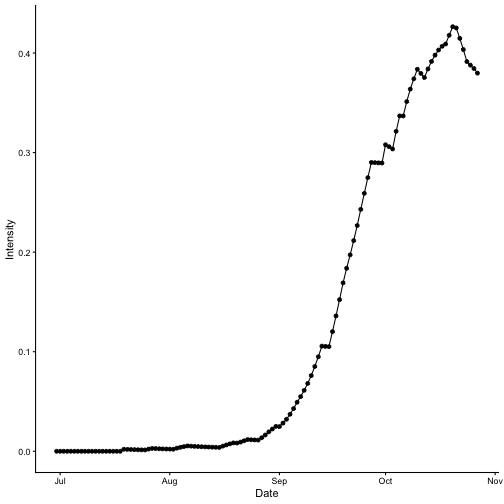
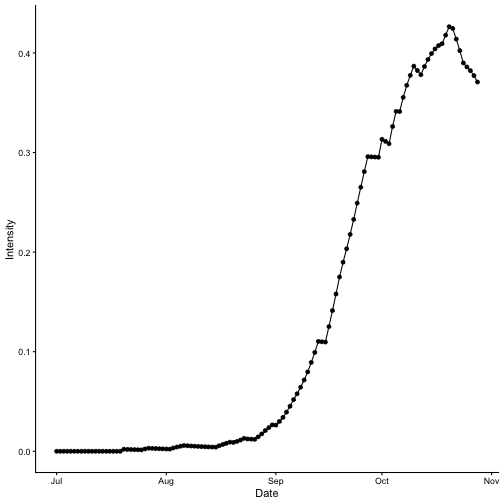
reknit README

diff --git a/README.md b/README.md
@@ -7,7 +7,7 @@
 
 <!-- badges: start -->
 
-[![Project Status: Active – The project has reached a stable, usable state and is being actively developed.](https://www.repostatus.org/badges/latest/active.svg)](https://www.repostatus.org/#active) [![Lifecycle: stable](https://img.shields.io/badge/lifecycle-stable-green.svg)](https://lifecycle.r-lib.org/articles/stages.html#stable) [![DOI](https://zenodo.org/badge/58613738.svg)](https://zenodo.org/badge/latestdoi/58613738) [![CRAN status](https://www.r-pkg.org/badges/version/epicrop)](https://CRAN.R-project.org/package=epicrop) [![Code Coverage: 70%](https://img.shields.io/badge/code_coverage-70%25-green)](#code-coverage)
+[![Project Status: Active – The project has reached a stable, usable state and is being actively developed.](https://www.repostatus.org/badges/latest/active.svg)](https://www.repostatus.org/#active) [![Lifecycle: stable](https://img.shields.io/badge/lifecycle-stable-green.svg)](https://lifecycle.r-lib.org/articles/stages.html#stable) [![DOI](https://zenodo.org/badge/58613738.svg)](https://zenodo.org/badge/latestdoi/58613738) [![CRAN status](https://www.r-pkg.org/badges/version/epicrop)](https://CRAN.R-project.org/package=epicrop) [![Code Coverage: 69%](https://img.shields.io/badge/code_coverage-69%25-green)](#code-coverage)
 
 <!-- badges: end -->
 
@@ -51,19 +51,20 @@ wth <- get_wth(
 )
 
 wth
+#> Key: <YYYYMMDD>
 #>        YYYYMMDD   DOY  TEMP  TMIN  TMAX  RHUM  RAIN     LAT      LON
-#>          <Date> <int> <num> <num> <num> <num> <num>   <num>    <num>
-#>   1: 2000-06-30   182 26.02 23.34 28.76 88.53 11.01 14.6774 121.2556
-#>   2: 2000-07-01   183 25.29 23.86 27.78 92.20 23.12 14.6774 121.2556
-#>   3: 2000-07-02   184 26.13 23.54 29.90 86.01 17.34 14.6774 121.2556
-#>   4: 2000-07-03   185 25.50 24.28 27.23 94.16 29.08 14.6774 121.2556
-#>   5: 2000-07-04   186 25.81 24.50 27.56 92.42 13.01 14.6774 121.2556
+#>          <IDat> <int> <num> <num> <num> <num> <num>   <num>    <num>
+#>   1: 2000-07-01   183 25.29 23.86 27.78 92.20 23.12 14.6774 121.2556
+#>   2: 2000-07-02   184 26.13 23.54 29.90 86.01 17.34 14.6774 121.2556
+#>   3: 2000-07-03   185 25.50 24.28 27.23 94.16 29.08 14.6774 121.2556
+#>   4: 2000-07-04   186 25.81 24.50 27.56 92.42 13.01 14.6774 121.2556
+#>   5: 2000-07-05   187 25.97 25.13 27.40 92.34 32.20 14.6774 121.2556
 #>  ---                                                                
-#> 118: 2000-10-25   299 25.82 23.44 29.54 89.76 12.04 14.6774 121.2556
-#> 119: 2000-10-26   300 25.44 24.14 26.99 94.93 13.03 14.6774 121.2556
-#> 120: 2000-10-27   301 25.74 24.54 27.69 91.43 11.54 14.6774 121.2556
-#> 121: 2000-10-28   302 25.44 24.72 26.62 91.90 74.20 14.6774 121.2556
-#> 122: 2000-10-29   303 24.97 24.15 26.34 94.15 29.11 14.6774 121.2556
+#> 117: 2000-10-25   299 25.82 23.44 29.54 89.76 12.04 14.6774 121.2556
+#> 118: 2000-10-26   300 25.44 24.14 26.99 94.93 13.03 14.6774 121.2556
+#> 119: 2000-10-27   301 25.74 24.54 27.69 91.43 11.54 14.6774 121.2556
+#> 120: 2000-10-28   302 25.44 24.72 26.62 91.90 74.20 14.6774 121.2556
+#> 121: 2000-10-29   303 24.97 24.15 26.34 94.15 29.11 14.6774 121.2556
 ```
 
 ## Modelling bacterial blight disease intensity
@@ -75,45 +76,32 @@ Once you have the weather data, run the model for any of the five rice diseases 
 bb_sim <- bacterial_blight(wth, emergence = "2000-07-01")
 
 bb_sim
-#>      simday      dates     sites   latent infectious  removed    senesced
-#>       <int>     <Date>     <num>    <num>      <num>    <num>       <num>
-#>   1:      1 2000-06-30  108.6875  0.00000     0.0000   0.0000    1.000000
-#>   2:      2 2000-07-01  118.1002  0.00000     0.0000   0.0000    2.086875
-#>   3:      3 2000-07-02  128.2934  0.00000     0.0000   0.0000    3.267877
-#>   4:      4 2000-07-03  139.3254  0.00000     0.0000   0.0000    4.550811
-#>   5:      5 2000-07-04  151.2581  0.00000     0.0000   0.0000    5.944065
-#>  ---                                                                     
-#> 116:    116 2000-10-23 1453.4937 66.62053   916.5275 435.9723 1837.520100
-#> 117:    117 2000-10-24 1453.8292 43.86453   891.1091 484.1467 1852.055037
-#> 118:    118 2000-10-25 1435.3902 40.40084   868.8771 528.6018 1866.593329
-#> 119:    119 2000-10-26 1418.3189 36.13249   849.7002 569.4202 1880.947231
-#> 120:    120 2000-10-27 1402.4149 52.32144   806.4095 612.7109 1895.130420
-#>       rateinf  rlex rtransfer rremoved  rgrowth rsenesced diseased intensity
-#>         <num> <num>     <num>    <num>    <num>     <num>    <num>     <num>
-#>   1:  0.00000     0   0.00000  0.00000  9.68750  1.000000    0.000 0.0000000
-#>   2:  0.00000     0   0.00000  0.00000 10.49959  1.086875    0.000 0.0000000
-#>   3:  0.00000     0   0.00000  0.00000 11.37416  1.181002    0.000 0.0000000
-#>   4:  0.00000     0   0.00000  0.00000 12.31499  1.282934    0.000 0.0000000
-#>   5:  0.00000     0   0.00000  0.00000 13.32593  1.393254    0.000 0.0000000
-#>  ---                                                                        
-#> 116:  0.00000     0  24.08819 46.61892 14.88278 14.531424 1419.120 0.4034849
-#> 117:  0.00000     0  22.75600 48.17443 14.87042 14.534937 1419.120 0.3913984
-#> 118: 18.75936     0  22.22305 44.45507 14.85861 14.538292 1437.880 0.3878067
-#> 119: 17.37313     0  21.64148 40.81840 14.65579 14.353902 1455.253 0.3844507
-#> 120: 16.18895     0   0.00000 43.29069 14.46810 14.183189 1471.442 0.3797769
-#>          lat      lon
-#>        <num>    <num>
-#>   1: 14.6774 121.2556
-#>   2: 14.6774 121.2556
-#>   3: 14.6774 121.2556
-#>   4: 14.6774 121.2556
-#>   5: 14.6774 121.2556
-#>  ---                 
-#> 116: 14.6774 121.2556
-#> 117: 14.6774 121.2556
-#> 118: 14.6774 121.2556
-#> 119: 14.6774 121.2556
-#> 120: 14.6774 121.2556
+#>      simday      dates     sites   latent infectious  removed    senesced  rateinf  rlex
+#>       <int>     <Date>     <num>    <num>      <num>    <num>       <num>    <num> <num>
+#>   1:      1 2000-07-01  108.6875  0.00000     0.0000   0.0000    1.000000  0.00000     0
+#>   2:      2 2000-07-02  118.1002  0.00000     0.0000   0.0000    2.086875  0.00000     0
+#>   3:      3 2000-07-03  128.2934  0.00000     0.0000   0.0000    3.267877  0.00000     0
+#>   4:      4 2000-07-04  139.3254  0.00000     0.0000   0.0000    4.550811  0.00000     0
+#>   5:      5 2000-07-05  151.2581  0.00000     0.0000   0.0000    5.944065  0.00000     0
+#>  ---                                                                                    
+#> 116:    116 2000-10-24 1447.1969 42.91601   882.1001 499.8577 1816.288533  0.00000     0
+#> 117:    117 2000-10-25 1429.3000 39.43396   858.8877 544.8076 1830.760502 18.25549     0
+#> 118:    118 2000-10-26 1412.7346 35.15905   838.8631 586.0107 1845.053503 16.90356     0
+#> 119:    119 2000-10-27 1397.3041 50.90893   795.3101 629.5637 1859.180849 15.74988     0
+#> 120:    120 2000-10-28 1383.3219 65.19296   749.9324 674.9414 1873.153890 14.28403     0
+#>      rtransfer rremoved  rgrowth rsenesced diseased intensity     lat      lon
+#>          <num>    <num>    <num>     <num>    <num>     <num>   <num>    <num>
+#>   1:   0.00000  0.00000  9.68750  1.000000    0.000 0.0000000 14.6774 121.2556
+#>   2:   0.00000  0.00000 10.49959  1.086875    0.000 0.0000000 14.6774 121.2556
+#>   3:   0.00000  0.00000 11.37416  1.181002    0.000 0.0000000 14.6774 121.2556
+#>   4:   0.00000  0.00000 12.31499  1.282934    0.000 0.0000000 14.6774 121.2556
+#>   5:   0.00000  0.00000 13.32593  1.393254    0.000 0.0000000 14.6774 121.2556
+#>  ---                                                                          
+#> 116:  22.24980 48.78973 14.84370 14.468215 1424.874 0.3899380 14.6774 121.2556
+#> 117:  21.73754 44.94989 14.83057 14.471969 1443.129 0.3859397 14.6774 121.2556
+#> 118:  21.17847 41.20307 14.63115 14.293000 1460.033 0.3822104 14.6774 121.2556
+#> 119:   0.00000 43.55303 14.44665 14.127346 1475.783 0.3771831 14.6774 121.2556
+#> 120:   0.00000 45.37768 14.27491 13.973041 1490.067 0.3707732 14.6774 121.2556
 ```
 
 Lastly, you can visualise the result of the model run.
@@ -121,7 +109,6 @@ Lastly, you can visualise the result of the model run.
 
 ``` r
 library(ggplot2)
-#> Need help? Try Stackoverflow: https://stackoverflow.com/tags/ggplot2
 
 ggplot(
   data = bb_sim,
@@ -156,16 +143,17 @@ ggplot(
 
 
 ```
-#> epicrop Coverage: 70.49%
+#> epicrop Coverage: 69.02%
 #> R/build_epicrop_emergence.R: 0.00%
 #> R/fetch_epicrop_weather_list.R: 0.00%
 #> R/run_epicrop_model.R: 0.00%
-#> R/validation.R: 83.07%
+#> R/validation.R: 73.71%
+#> R/format_wth.R: 80.00%
+#> R/get_wth.R: 81.16%
 #> R/epicrop_sim.R: 85.47%
 #> R/audpc.R: 87.50%
-#> R/leaf_wetness.R: 90.55%
-#> R/weather.R: 94.87%
-#> src/seir_core.cpp: 97.73%
+#> R/leaf_wetness.R: 90.62%
+#> src/seir_core.cpp: 98.41%
 #> R/disease_models.R: 100.00%
 #> R/interpolation.R: 100.00%
 ```
